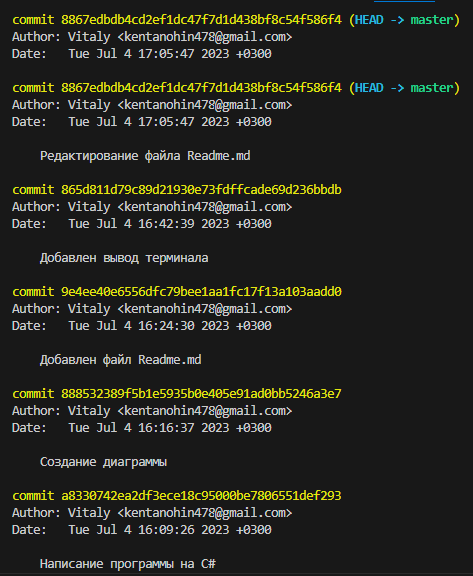
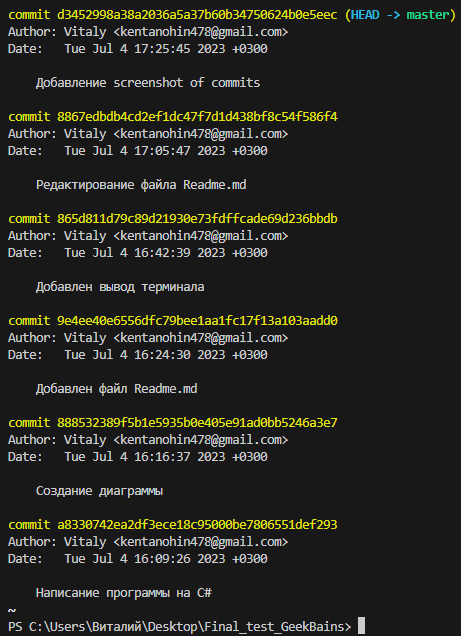
Редактирование Readme.md

diff --git a/Readme.md b/Readme.md
@@ -109,7 +109,7 @@ void PrintArray(string[] array)
 
 Результат вывода в терминал:
 
-> ![image_terminal](image_terminal.jpg)
+> ![Screenshot.terminal](Screenshot.terminal.png)
 
 5. Скриншот коммитов для подтверждения.
 
